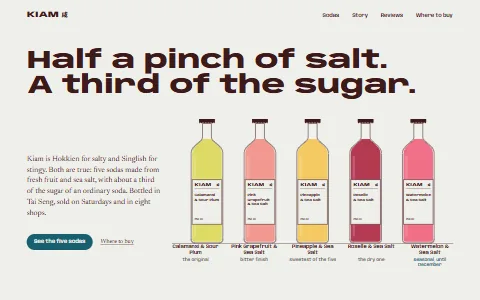
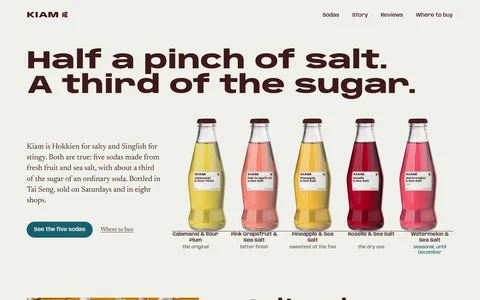
Sync the hub's KIAM card with the real-bottle build
The card was written against the pre-photo state (thumbnail and copy both
said the bottle was drawn, never photographed) before 58f9449 replaced the
drawn SVG bottles with five edits of one licensed photograph. Regenerated
the 480x300 thumbnail from that build's own homepage screenshot and fixed
the alt text and card description to match.

diff --git a/index.html b/index.html
@@ -3045,13 +3045,13 @@
     <a class="card reveal" href="templates/kiam/index.html" data-facet="flagship ecommerce" data-date="2026-09-20" data-tier="4" data-category="ecommerce" data-creator="Josh" data-style="photography-led typography-led">
       <div class="preview preview--shot">
         <div class="chrome"><i></i><i></i><i></i></div>
-        <img src="img/kiam-sm.webp" alt="The KIAM homepage: &lsquo;Half a pinch of salt. A third of the sugar.&rsquo; beside a line-up of five drawn soda bottles in calamansi, grapefruit, pineapple, roselle and watermelon." width="480" height="300" loading="lazy" decoding="async">
+        <img src="img/kiam-sm.webp" alt="The KIAM homepage: &lsquo;Half a pinch of salt. A third of the sugar.&rsquo; beside a line-up of five bottled sodas in calamansi, grapefruit, pineapple, roselle and watermelon, photographed from one licensed bottle." width="480" height="300" loading="lazy" decoding="async">
       </div>
       <div class="card-body">
         <span class="tag">CPG / Salted Soda</span>
         <span class="facet-tag" data-f="flagship">Flagship</span><span class="facet-tag" data-f="ecommerce">E&#8209;Commerce</span><span class="creator-tag" data-rank="advanced">Josh</span>
         <h3>KIAM 咸</h3>
-        <p>Five salted sodas, Singapore-made &mdash; a six-pack builder that totals to a WhatsApp order, a stockist map, candid local photography, and a bottle that&rsquo;s drawn, never photographed.</p>
+        <p>Five salted sodas, Singapore-made &mdash; a six-pack builder that totals to a WhatsApp order, a stockist map, candid local photography, and a full bottle range built from one licensed photograph.</p>
         <span class="card-foot">
           <span class="card-link">View Template
             <svg viewBox="0 0 24 24" fill="none" stroke="currentColor" stroke-width="2" stroke-linecap="round" stroke-linejoin="round"><path d="M5 12h14"/><path d="M13 6l6 6-6 6"/></svg>
